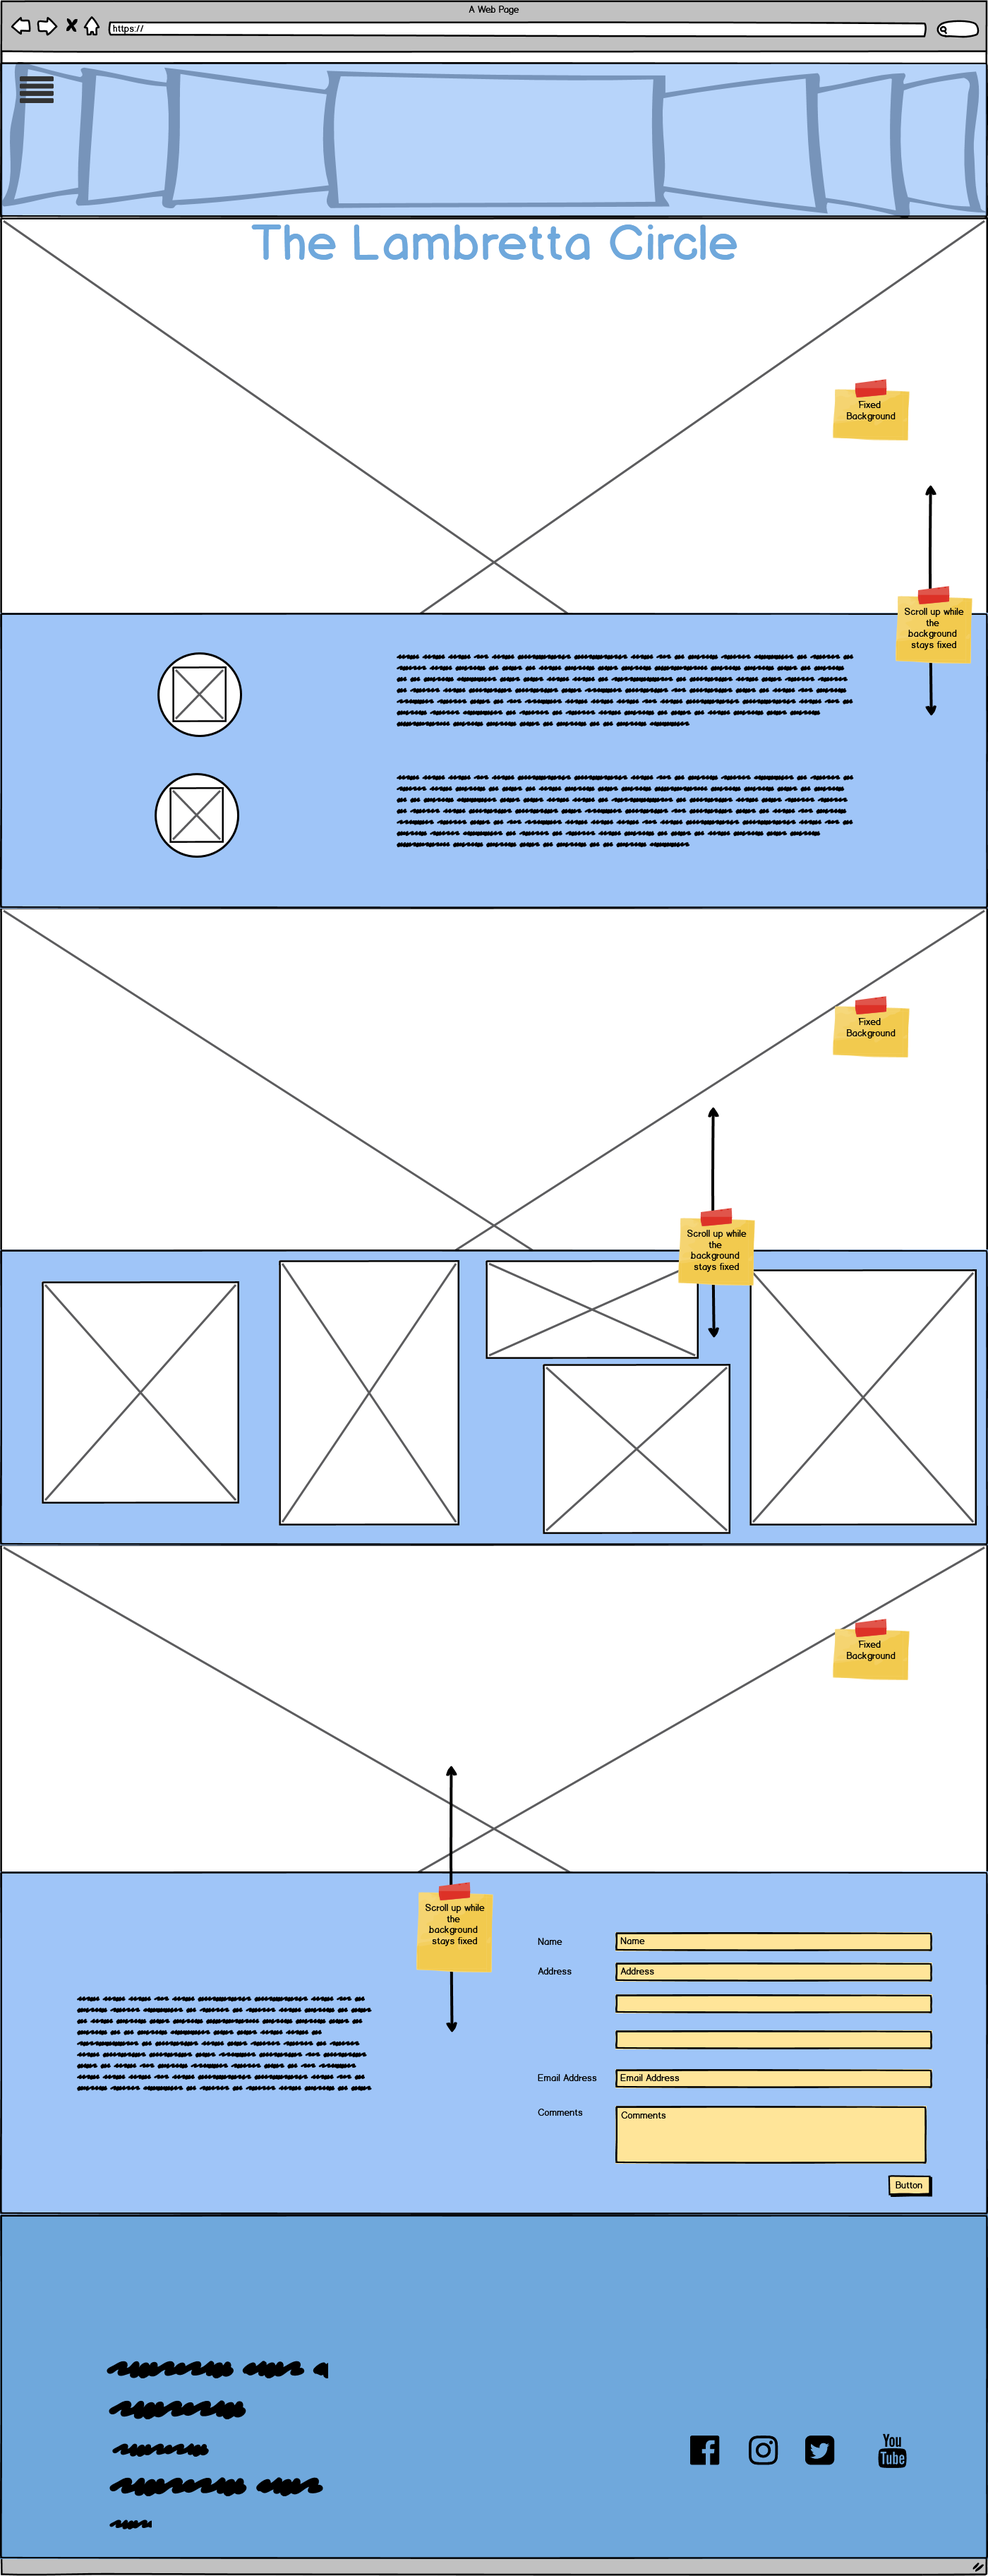
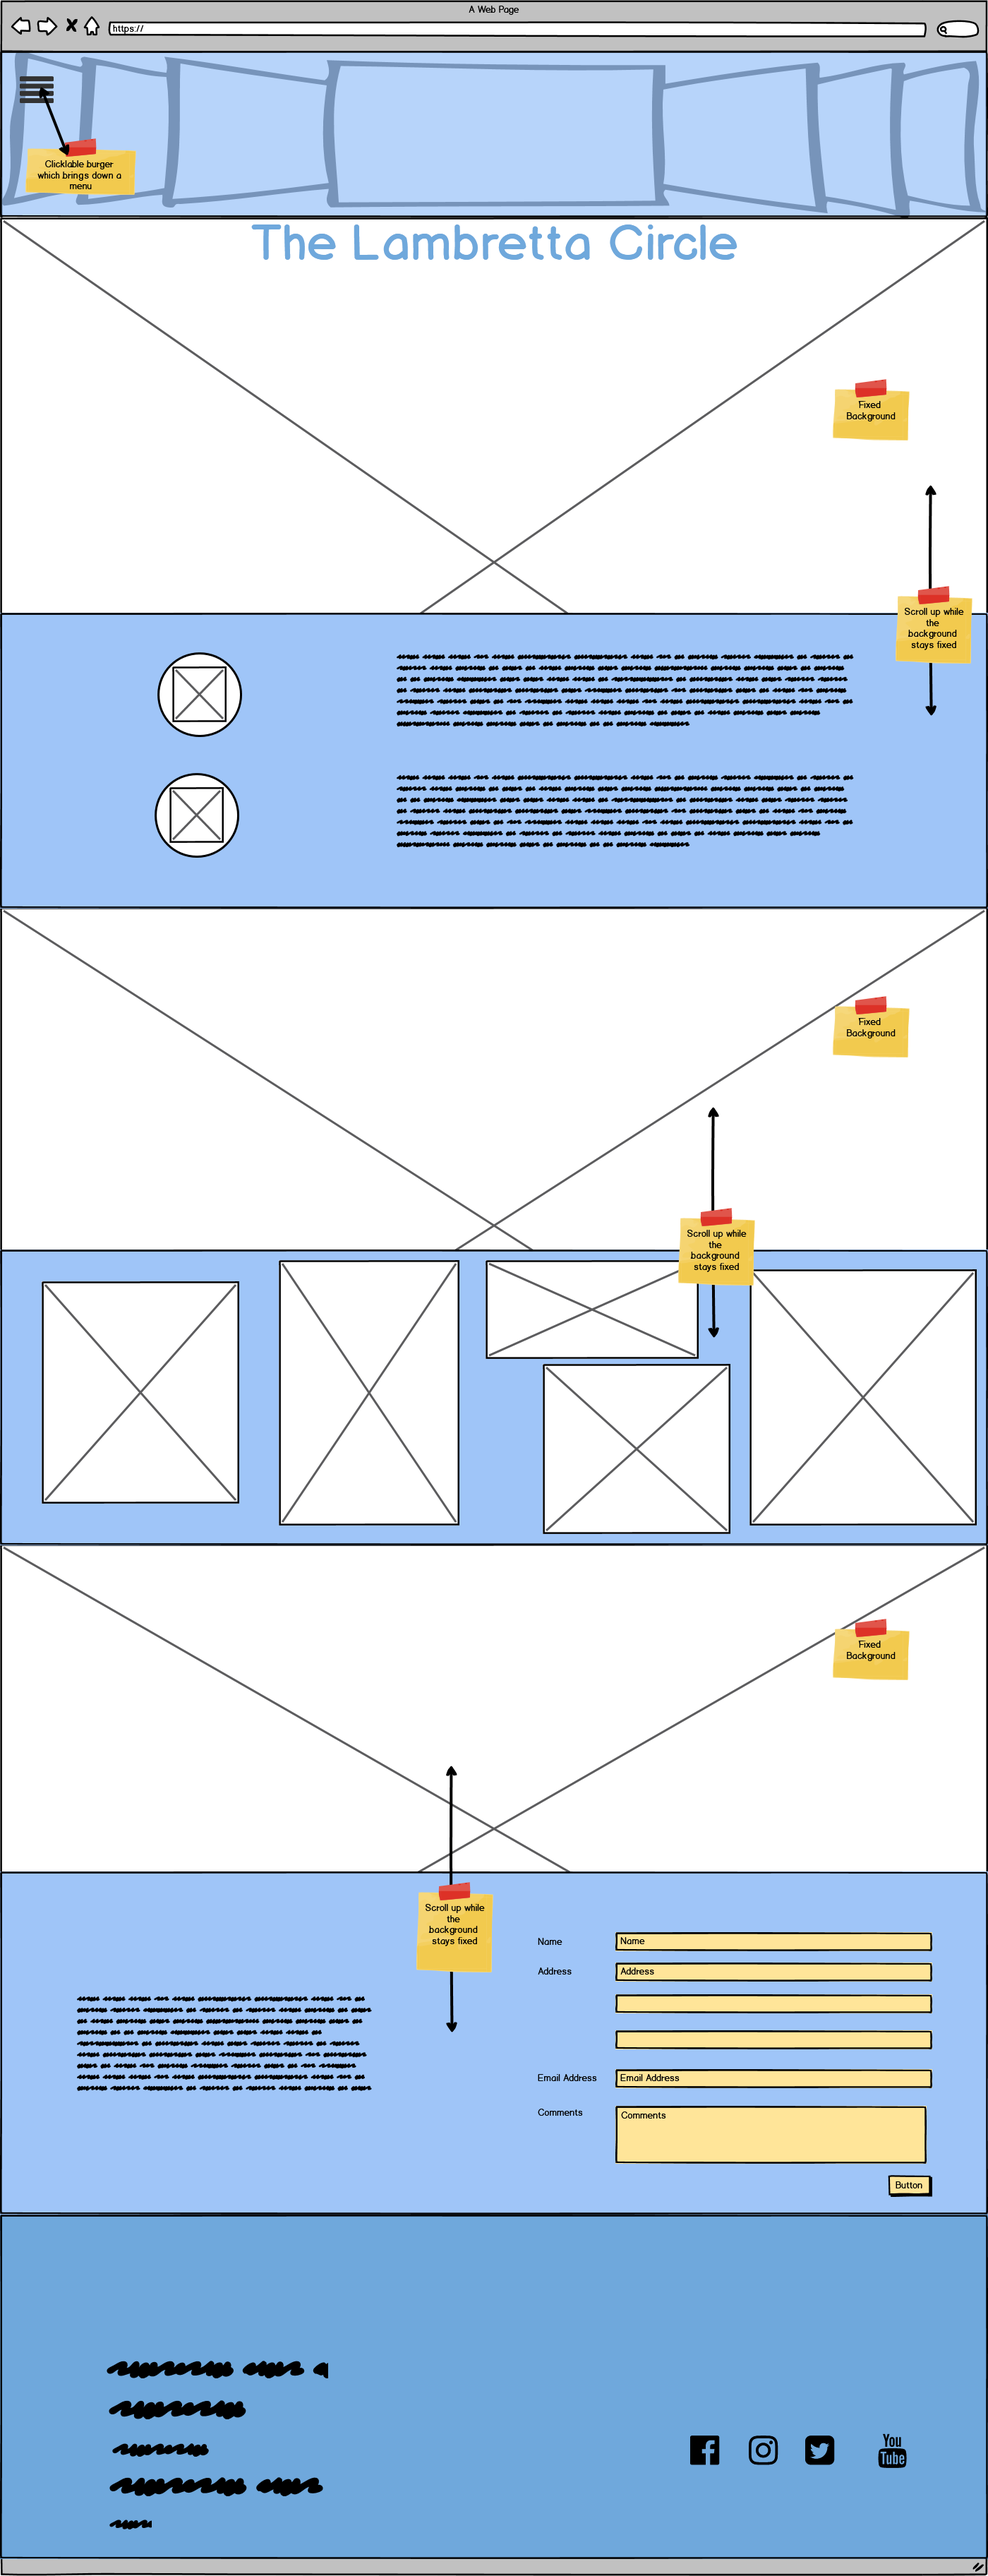
wireframes update

Changed region(s): [[0.0, 0.0, 1.0, 0.0937]]

diff --git a/README.md b/README.md
@@ -73,29 +73,30 @@ In order to achieve this, the client wanted a website which meets the following 
 
 ![](wireframes/address-section.png)
 
+### - Burger dropdown menu
+
+* A burger style where a dropdown menu with 3 choices "Home", "about us", "contact". Links to be implemented in the future.
+
+![](wireframes/dropdown-menu.png)
+
 ## Wireframes Mockups:
 
 ### Desktop
 
-<div style="text-align:center;">
-<img src="https://i.ibb.co/Wt4HjVG/the-lambretta-circle-desktop.png"></img>
-</div>
+![](wireframes/the-lambretta-circle-desktop.png)
 
 <br>
 
 ### Tablet
 
-<div style="text-align:center;">
-<img src="https://i.ibb.co/Hpjw5Lq/the-lambretta-circle-tablet.png"></img>
-</div>
+![](wireframes/the-lambretta-circle-tablet.png)
+
 
 <br>
 
 ### Mobile
 
-<div style="text-align:center;">
-<img src="https://i.ibb.co/jWRc70B/the-lambretta-circle-phone.png"></img><br>
-</div>
+![](wireframes/the-lambretta-circle-phone.png)
 
 ---
 
